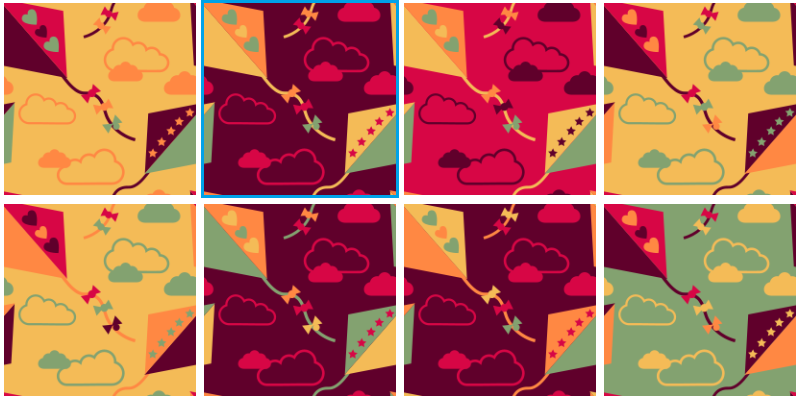
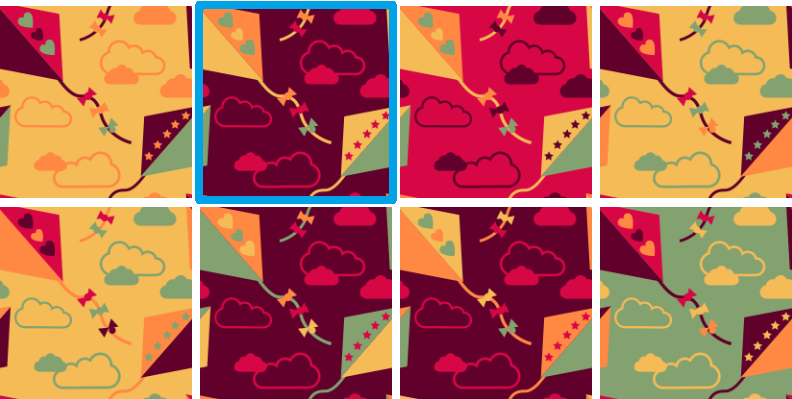
New teaser figure/wording, results changes.

diff --git a/latex/siggraph2013/results.tex b/latex/siggraph2013/results.tex
@@ -72,18 +72,18 @@ Here, $\textrm{targetColor}(\group)$ is the desired color of group $\group$ and 
 %\end{equation*}
 %%%
 
-\begin{figure}[ht]
-\begin{tabular}{cc}
-{\includegraphics[width=.1785\columnwidth]{figs/brightness0Original}}&\includegraphics[width=.735\columnwidth]{figs/brightness0MMR}\vspace{0.5em}\\
-{\includegraphics[width=.1785\columnwidth]{figs/brightness1Original}}&\includegraphics[width=.735\columnwidth]{figs/brightness1MMR}\vspace{0.5em}\\
+%\begin{figure}[ht]
+%\begin{tabular}{cc}
+%{\includegraphics[width=.1785\columnwidth]{figs/brightness0Original}}&\includegraphics[width=.735\columnwidth]{figs/brightness0MMR}\vspace{0.5em}\\
+%{\includegraphics[width=.1785\columnwidth]{figs/brightness1Original}}&\includegraphics[width=.735\columnwidth]{figs/brightness1MMR}\vspace{0.5em}\\
 %\raisebox{2em}{\includegraphics[width=.22\columnwidth]{figs/guidedSearch2Original}}%&\includegraphics[width=.7\columnwidth]{figs/guidedSearch2MMR}\\
-Original&Suggestions\\
-\end{tabular}
+%Original&Suggestions\\
+%\end{tabular}
 
-\caption{TODO.}
-\label{fig:lightnessSearch}
-\vspace{-1.0em}
-\end{figure}
+%\caption{TODO.}
+%\label{fig:lightnessSearch}
+%\vspace{-1.0em}
+%\end{figure}
 
 \begin{figure}[ht]
 \begin{tabular}{cc}
@@ -98,7 +98,7 @@ Original&Suggestions\\
 \vspace{-1.0em}
 \end{figure}
 
-Figure~\ref{fig:nearbySuggestions} shows example scenarios where a proposed coloring is given, and the model returns similar colorings. Our model is able to make significant variations to the input colors while still preserving desirable properties of the results.~\remark{Maybe preserving the `character' or the `identity' of the original?}
+Figure~\ref{fig:nearbySuggestions} shows example scenarios where a proposed coloring is given, and the model returns similar colorings. Here we choose $\sigma_\textrm{user}$ to be 10\% of the diagonal length of the \lab color space, and $w_\textrm{user}=3.0$, indicating a desire to remain fairly close to the original coloring. Our model is able to make numerous variations to the input colors while still preserving the overall quality of the results.
 
 \begin{figure}[ht]
 \begin{tabular}{ccc} 

diff --git a/latex/siggraph2013/patternColoring.tex b/latex/siggraph2013/patternColoring.tex
@@ -127,7 +127,7 @@
         Input pattern                   & Sampled colorings               & Random colorings                \\
     \end{tabular}
 %\end{table}
-\caption{Given the uncolored pattern templates shown on the left, we use our probabilistic factor graph model to generate the pattern colorings shown in the middle. Our factor graph is trained on example patterns created by artists. For comparison, on the right we show randomized colorings of each template.~\remark{Note that we don't use any of the intensity information in the template (or will we, in a new result?)}}
+\caption{Given the uncolored pattern templates shown on the left, we use our probabilistic factor graph model to generate the pattern colorings shown in the middle. Our factor graph is trained on example patterns created by artists, and the top ten results after MMR diversification are shown. For comparison, on the right we show randomized colorings of each template. The lightness information used to visualize the input pattern is not used.}
 \label{fig:teaser}
 \vspace{-1.0em}
 
